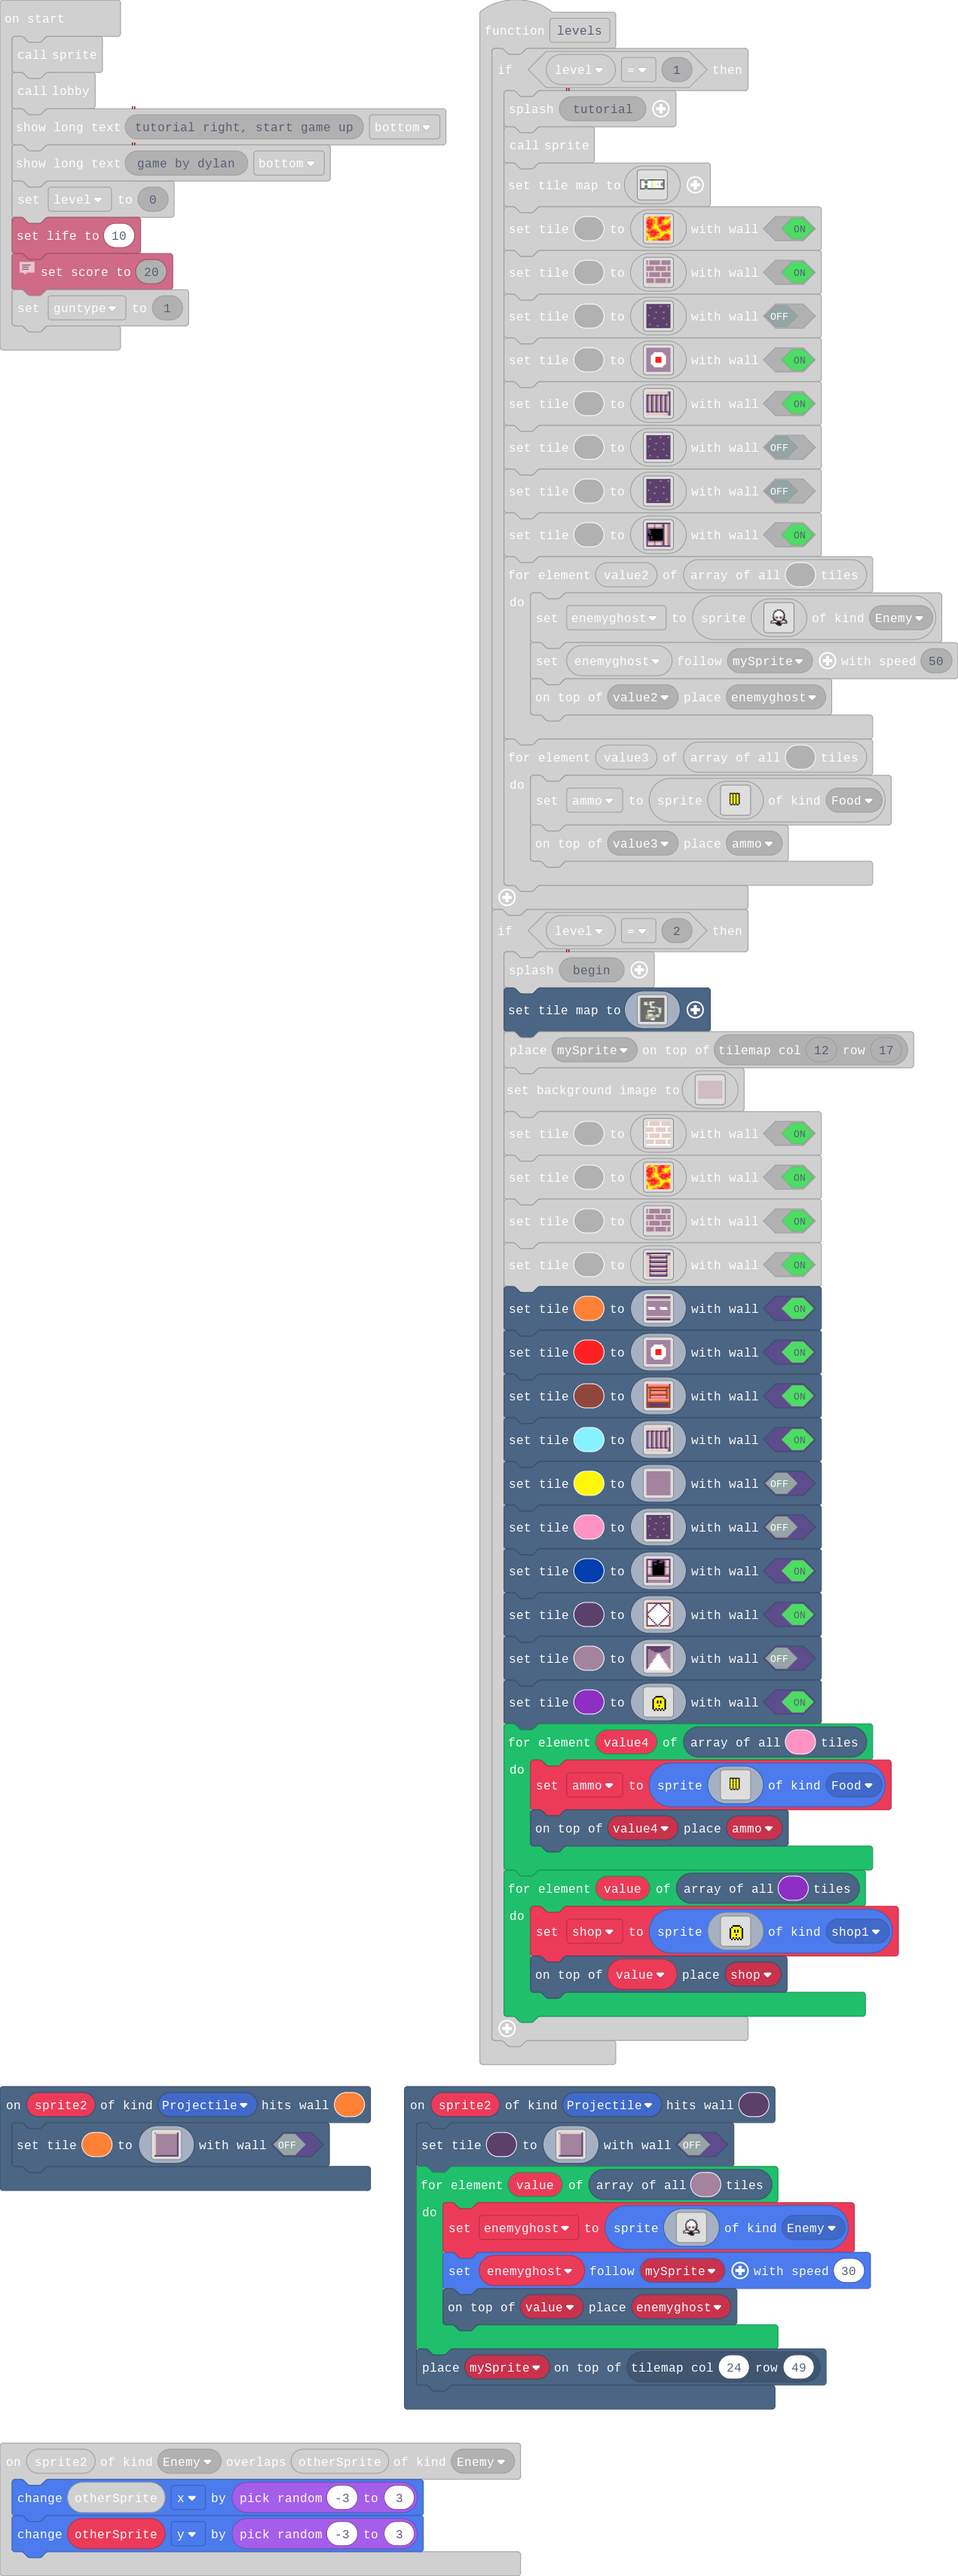
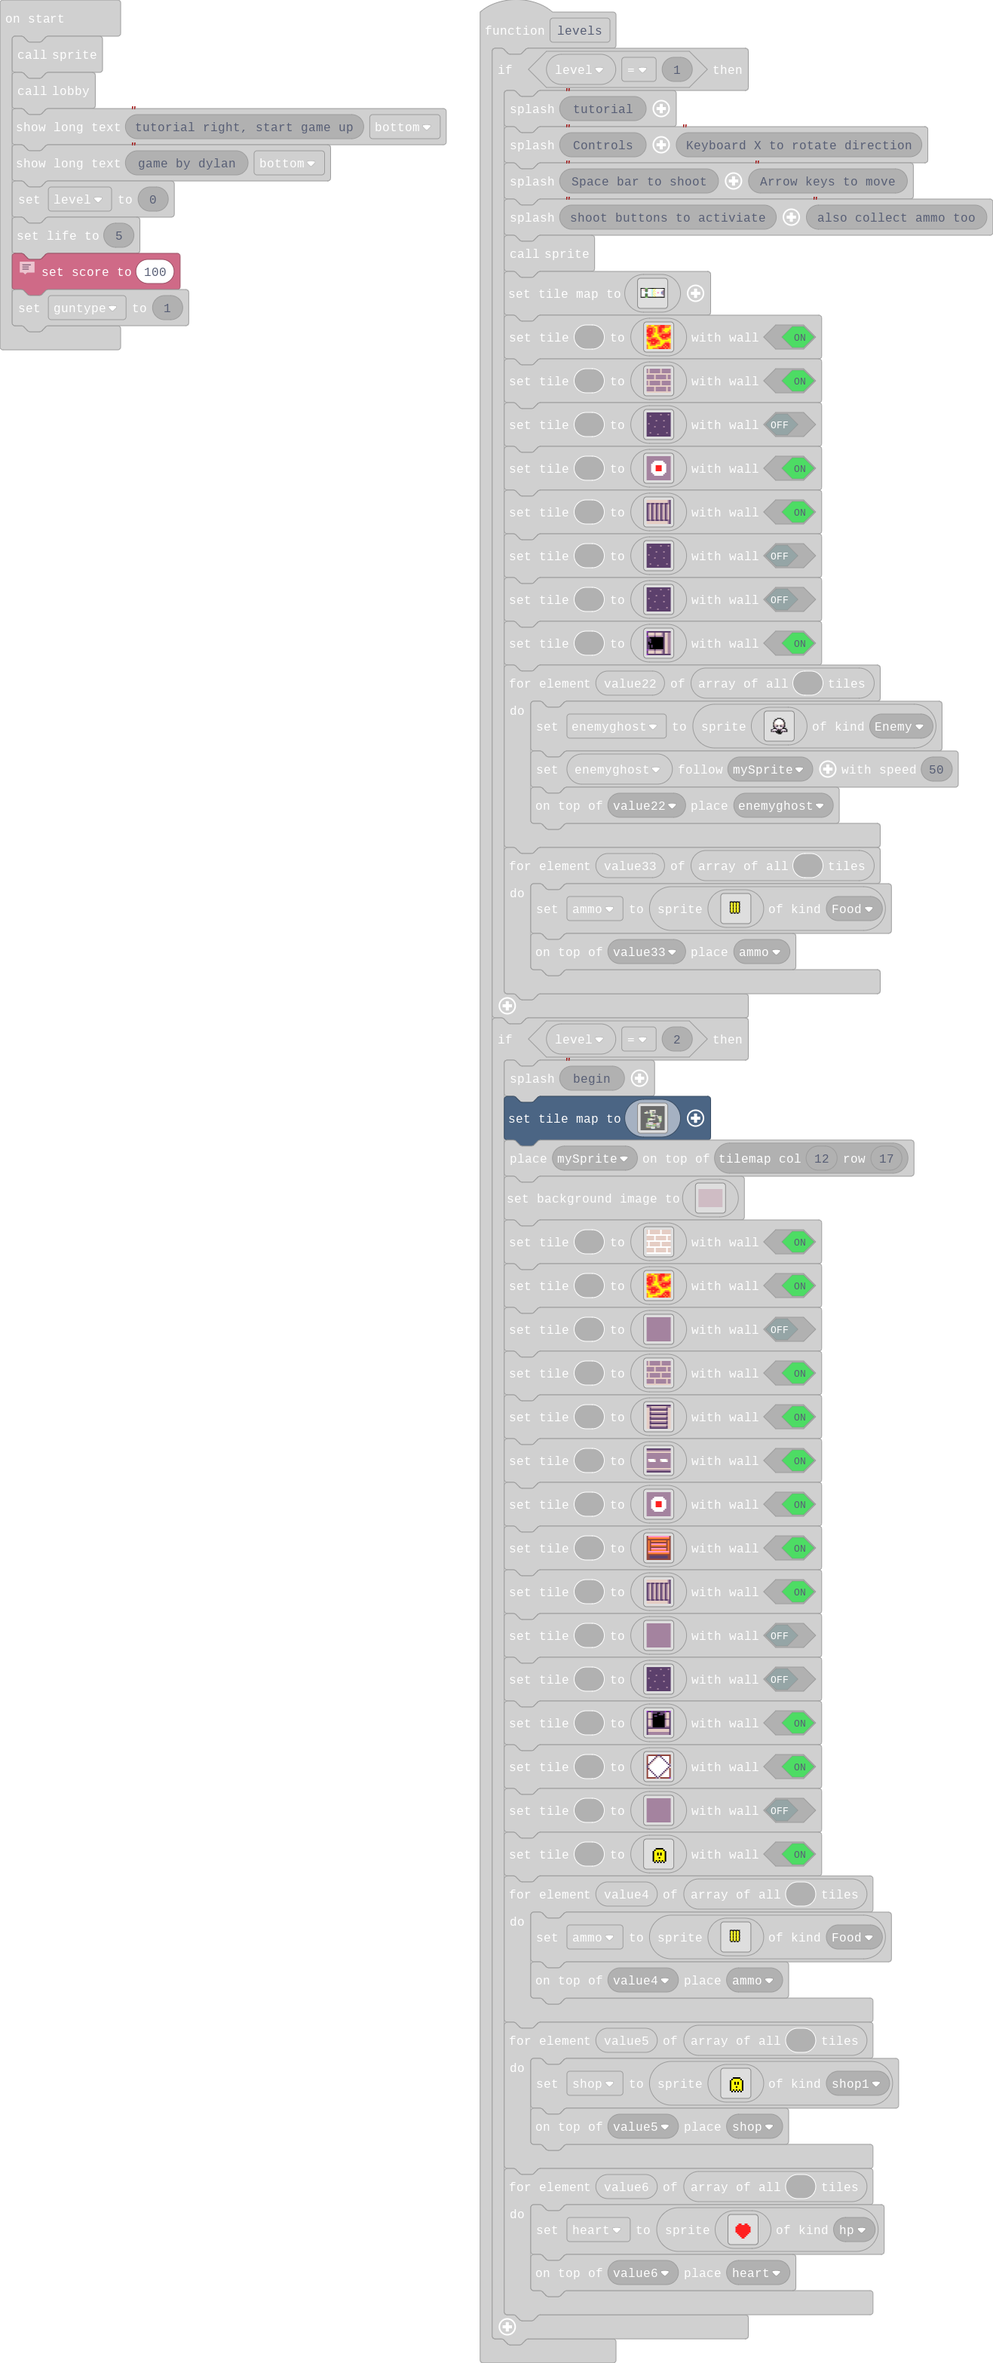
Update main.blocks, main.ts

diff --git a/main.ts b/main.ts
@@ -924,23 +924,23 @@ f f f f f f f f f f f f f f f f f f f f f f f f . . . . . . . . . . . . . . . . 
 f f f f f f f f f f f f f f f 3 3 . . f f f f f . . . . . . . . . 5 . . . 3 . . f f f f f f f f f f f f f f f f f f f f f f f f 
 f f f f f f f f f f f f f f f . . . . f f f f f . . . 5 . . . f f f f f f . . . f f f f f f f f f f f f f f f f f f f f f f f f 
 f f f f f f f f f f f f f f f . . . . f f f f f . . . . . . . f f f f f f . . . f f f f f f f f f f f f f f f f f f f f f f f f 
-f f f f f f f f f f . . . . . . . . . f f f f f 5 . . . . 5 . f f f f f f 3 . . f f f f f f f f f f f f f f f f f f f f f f f f 
-f f f f f f f f f f . . . . . . 5 5 . . . 9 9 . . . . . . . . . . . . . . . . . f f f f f f f f f f f f f f f f f f f f f f f f 
-f f f f f f f f f f . . . . . . 5 5 . . . 9 9 . . . . 5 . . 7 7 . . . . . . . . f f f f f f f f f f f f f f f f f f f f f f f f 
-f f f f f f f f f f . . . . . . . . . f f f f f f f . . . 7 7 f f f f f f f f f f f f f f f f f f f f f f f f f f f f f f f f f 
-f f f f f f f f f f f f f f f f f f f f f f f f f f . . . 7 7 f f f f f f f f f f f f f f f f f f f f f f f f f f f f f f f f f 
-f f f f f f f f f f f f f f f f f f f f f f f f f f . . 5 . 7 f f f f f f f f f f f f f f f f f f f f f f f f f f f f f f f f f 
-f f f f f f f f f f f f f f f f f f f f f f f f f f 7 . . . 7 f f f f f f f f f f f f f f f f f f f f f f f f f f f f f f f f f 
+f f f f f f f f f f 7 . . . . . . . . f f f f f 5 . . . . 5 . f f f f f f 3 . . f f f f f f f f f f f f f f f f f f f f f f f f 
+f f f f f f f f f f 7 . . . . . 5 5 . . . 9 9 . . . . . . . . . . . . . . . . . f f f f f f f f f f f f f f f f f f f f f f f f 
+f f f f f f f f f f 7 . . . . . 5 5 . . . 9 9 . . . . 5 . . 7 7 . . . . . . . . f f f f f f f f f f f f f f f f f f f f f f f f 
+f f f f f f f f f f 7 . . . . . . . . f f f f f f f . . . 7 7 f f f 7 f f f f f f f f f f f f f f f f f f f f f f f f f f f f f 
+f f f f f f f f f f f f f f f f f f f f f f f f f f . . . 7 7 f f f 7 f f f f f f f f f f f f f f f f f f f f f f f f f f f f f 
+f f f f f f f f f f f f f f f f f f f f f f f f f f . . 5 . 7 f f f 7 f f f f f f f f f f f f f f f f f f f f f f f f f f f f f 
+f f f f f f f f f f f f f f f f f f f f f f f f f f 7 . . . 7 f f f 7 f f f f f f f f f f f f f f f f f f f f f f f f f f f f f 
 f f f f f f f f f f f f f f f f f f f f f f f f f f 7 7 . . 7 7 7 . . . . . . f f f f f f f f f f f f f f f f f f f f f f f f f 
 f f f f f f f f f f f f f f f f f f f f f f f f f f 7 7 5 . 7 7 . . . . . . . . e e . . . . f f f f f f f f f f f f f f f f f f 
 f f f f f f f f f f f f f f f f f f f f f f f f f f 7 7 . . 7 . . . . . . . . . e e . . . . f f f f f f f f f f f f f f f f f f 
 f f f f f f f f f f f f f f f f f f f f f f f f f f 7 7 . . . . . . . . . . . f f f f f . . f f 7 7 7 7 7 7 7 7 f f f f f f f f 
 f f f f f f f f f f f f f f f f f f f f f f f f f f 7 7 . 5 . . 5 . . 5 . . . f f f f f . . . . . . . . . . . 7 f f f f f f f f 
 f f f f f f f f f f f f f f f f f f f f f f f f f f f f f f f f f f f f f . . f f f f f . . . . . . . . . . . 7 f f f f f f f f 
-f f f f f f f f f f f f f f f f f f f f f f f f f f f f f f f f f f f f f e e f f f f f f f f f 7 e e e e e e 7 f f f f f f f f 
-f f f f f f f f f f f f f f f f f f f f f f f f f f f f f f f f f f f f f e e f f f f f f f f f 7 5 . 5 . 5 . 7 f f f f f f f f 
-f f f f f f f f f f f f f f f f f f f f f f f f f f f f f f f f f f f f f . . f f f f f f f f f 7 . . . . . . 7 f f f f f f f f 
-f f f f f f f f f f f f f f f f f f f 7 7 7 7 7 7 7 7 . 5 5 5 f f f f f f . . f f f f f f f f f 7 . . 5 . . . 7 f f f f f f f f 
+f f f f f f f f f f f f f f f f f f f f f f f f f f f f f f f f f f f f f e e f f f f f f . . 7 7 e e e e e e 7 f f f f f f f f 
+f f f f f f f f f f f f f f f f f f f f f f f f f f f f f f f f f f f f f e e f f f f f f . . 7 7 5 . 5 . 5 . 7 f f f f f f f f 
+f f f f f f f f f f f f f f f f f f f f f f f f f f f f f f f f f f f f f . . f f f f f f . . e . . . . . . . 7 f f f f f f f f 
+f f f f f f f f f f f f f f f f f f f 7 7 7 7 7 7 7 7 . 5 5 5 f f f f f f . . f f f f f f . . e . . . 5 . . . 7 f f f f f f f f 
 f f f f f f f f f f f f f f f f f f f 7 7 7 7 7 7 7 . d d d d f f f f f f . . f f f f f f f f f 7 . . . . . . 7 f f f f f f f f 
 f f f f f f f f f f f f f f f f f f f 7 7 7 7 7 7 . . . . . . . . d d . . . . f f f f f f f f f 7 . . . a . . 7 f f f f f f f f 
 f f f f f f f f f f f f f f f f f f f 7 7 7 7 5 5 d . . . . . . . d d . . . . f f f f f f f f f 7 7 . . 3 . . 7 f f f f f f f f 
@@ -950,22 +950,22 @@ f f f f f f f f f f f f f f f f f f f 7 . . f f f f f f f f f f f f f f f f f f 
 f f f f f f f f f f f f f f f f f f f 7 . . f f f f f f f f f f f f f f f f f f f f f f f f f f f 7 7 . . 7 7 7 f f f f f f f f 
 f f f f f f f f f f f f f f f f f f f 7 . . f f f f f f f f f f f f f f f f f f f f f f f f f f f 7 7 7 7 7 7 f f f f f f f f f 
 f f f f f f f f f f f f f f f f f f f 7 . . f f f f f f f f f f f f f f f f f f f f f f f f f f f f 7 7 7 7 7 f f f f f f f f f 
-f f f f f f f f f f f f f f f f f f f c c c . . . . . . . . . . . f f f f f f f f f f f f f f f f f 7 7 7 7 f f f f f f f f f f 
-f f f f f f f f f f f f f f f f f f f c c c b . . . b . . . b . . f f f f f f f f f f f f f f f f f f 7 7 f f f f f f f f f f f 
-f f f f f f f f f f f f f f f f f f f b . . . . b . . . b . . . b f f f f f f f f f . 2 . . . . . . . 3 3 f f f f f f f f f f f 
-f f f f f f f f f f f f f f f 3 . 1 1 . . . b . . . b . . . b . . f f f f f f f f f b . b . b . b . b 3 3 f f f f f f f f f f f 
-f f f f f f f f f f f f f f f 3 . 1 1 . b . . . . . . . . . . . . . 4 4 4 4 4 4 4 . . . . . . . . . . f f f f f f f f f f f f f 
-f f f f f f f f f f f f f f f . . f f f . . . . . . . . . b . b . . 4 4 4 4 4 4 4 . . b . b . b . b . f f f f f f f f f f f f f 
-f f f f f f f f f f f f f f f . . f 7 f 3 . . . . . . . . . . . 3 f f f f f f f f f . . . . . . . . . f f f f f f f f f f f f f 
-f f f f f f f f f f f f f f f . . f 7 f 3 . . . . . . . . . . . 3 f 7 7 7 7 7 7 7 f b . b . b . b . b f f f f f f f f f f f f f 
-f f f f f f f f f f f f f f f . . f 7 f f f f f f f f f f f f f f f 7 7 7 7 7 7 7 f . . . . . . . . . f f f f f f f f f f f f f 
-f f f f f f f f f f f f f f f . . f 7 7 7 7 7 7 7 7 7 7 7 7 7 7 7 7 7 7 7 7 7 7 7 f . b . b . b . b . f f f f f f f f f f f f f 
-f f f f f f f f f f f f f f f . . f 7 7 7 7 7 7 7 7 7 f f f f f f f f f f f f 7 7 7 f . . f f f . . . f f f f f f f f f f f f f 
-f f f f f f f f f f f f f f f . . f 7 7 7 7 7 7 7 7 7 f 3 . . . . . . . . . 3 f f f f . . f f f . . b f f f f f f f f f f f f f 
-f f f f f f f f f f f f f f f . . f f f f f f f f f f f . . . . . . . . . . 6 f f f f . . f f f . . . f f f f f f f f f f f f f 
-f f f f f f f f f f f f f f f b b b b b b b b b b 1 1 . . . . . . . . . . . 6 f f f . . . . . . . . . f f f f f f f f f f f f f 
-f f f f f f f f f f f f f f f 5 5 5 5 5 5 5 5 5 5 1 1 . . . . . . . . . . . 6 f f f . . . . . . . . . f f f f f f f f f f f f f 
-f f f f f f f f f f f f f f f f f f f f f f f f f f f f 1 1 1 1 1 1 1 1 1 1 f f f f f f f f f f f f f f f f f f f f f f f f f f 
+f f f f f f f f f f f f f f f f f f f c c c . . b . . . b . . . b f f f f f f f f f f f f f f f f f 7 7 7 7 f f f f f f f f f f 
+f f f f f f f f f f f f f f f f f f f c c c b . . . b b . b b . . f f f f f f f f f f f f f f f f f f 7 7 f f f f f f f f f f f 
+f f f f f f f f f f f f f f f f f f f b . b . . b . . . b . . . b f f f f f f f f f . 2 . . . . . . . 3 3 f f f f f f f f f f f 
+f f f f f f f f f f f f f f f 3 . 1 1 . . . b . . . b . b . b . . f f f f f f f f f b . b . b . b . b 3 3 f f f f f f f f f f f 
+f f f f f f f f f f f f f f f 3 . 1 1 . b . . . . . . . . . . . . . 4 4 4 4 4 4 4 . . b . . b . b . . f f f f f f f f f f f f f 
+f f f f f f f f f f f f f f f . . 7 f f . . . . . . . . . b . b . . 4 4 4 4 4 4 4 . . b . b . b . b . f f f f f f f f f f f f f 
+f f f f f f f f f f f f f f f . . 7 7 f 3 . . . . . . . . . . . 3 f f f f f f f f f . . . . . . . . . f f f f f f f f f f f f f 
+f f f f f f f f f f f f f f f . . 7 7 f 3 . . . . . . . . . . . 3 f 7 7 7 7 7 7 7 f b . b . b . b . b f f f f f f f f f f f f f 
+f f f f f f f f f f f f f f f . . 7 7 f 7 7 7 7 f f f f f 7 7 7 7 f 7 7 7 7 7 7 7 f . b . b . b . b . f f f f f f f f f f f f f 
+f f f f f f f f f f f f f f f . . 7 7 7 7 7 7 7 7 7 7 7 7 7 7 7 7 7 7 7 7 7 7 7 7 f . b . b . b . b . f f f f f f f f f f f f f 
+f f f f f f f f f f f f f f f . . 7 7 7 7 7 7 7 7 7 7 f f f f f 7 7 f f f f f 7 7 7 f . . f f f 7 . . f f f f f f f f f f f f f 
+f f f f f f f f f f f f f f f . . 7 f f f f f f f f 7 f 3 . . . 7 7 b . . . 3 f f f f . . f f f 7 . b f f f f f f f f f f f f f 
+f f f f f f f f f f f f f f f . . . . . . . . . . f f f . . . . 7 7 b . . . 6 f f f f . . 7 7 7 7 . . f f f f f f f f f f f f f 
+f f f f f f f f f f f f f f f b b b b b b b b b b 1 1 . . . . . 7 7 b . . . 6 f f f f . . . . . . . . f f f f f f f f f f f f f 
+f f f f f f f f f f f f f f f 5 5 5 5 5 5 5 5 5 5 1 1 . . . . . 7 7 . . . . 6 f f f f . . . . . . . . f f f f f f f f f f f f f 
+f f f f f f f f f f f f f f f f f f f f f f f f f f f f 1 1 1 1 7 7 1 1 1 1 f f f f f f f f f f f f f f f f f f f f f f f f f f 
 f f f f f f f f f f f f f f f f f f f f f f f f f f f f . . . . . . . . . . f f f f f f f f f f f f f f f f f f f f f f f f f f 
 f f f f f f f f f f f f f f f f f f f f f f f f f f f f . . . . . . . . . . f f f f f f f f f f f f f f f f f f f f f f f f f f 
 f f f f f f f f f f f f f f f f f f f f f f f f f f f f 8 8 8 8 8 8 8 8 8 8 f f f f f f f f f f f f f f f f f f f f f f f f f f 
@@ -1770,7 +1770,7 @@ game.showLongText("game by dylan", DialogLayout.Bottom)
 level = 0
 info.setLife(5)
 // ammo
-info.setScore(20)
+info.setScore(100)
 guntype = 1
 game.onUpdateInterval(1500, function () {
 	
